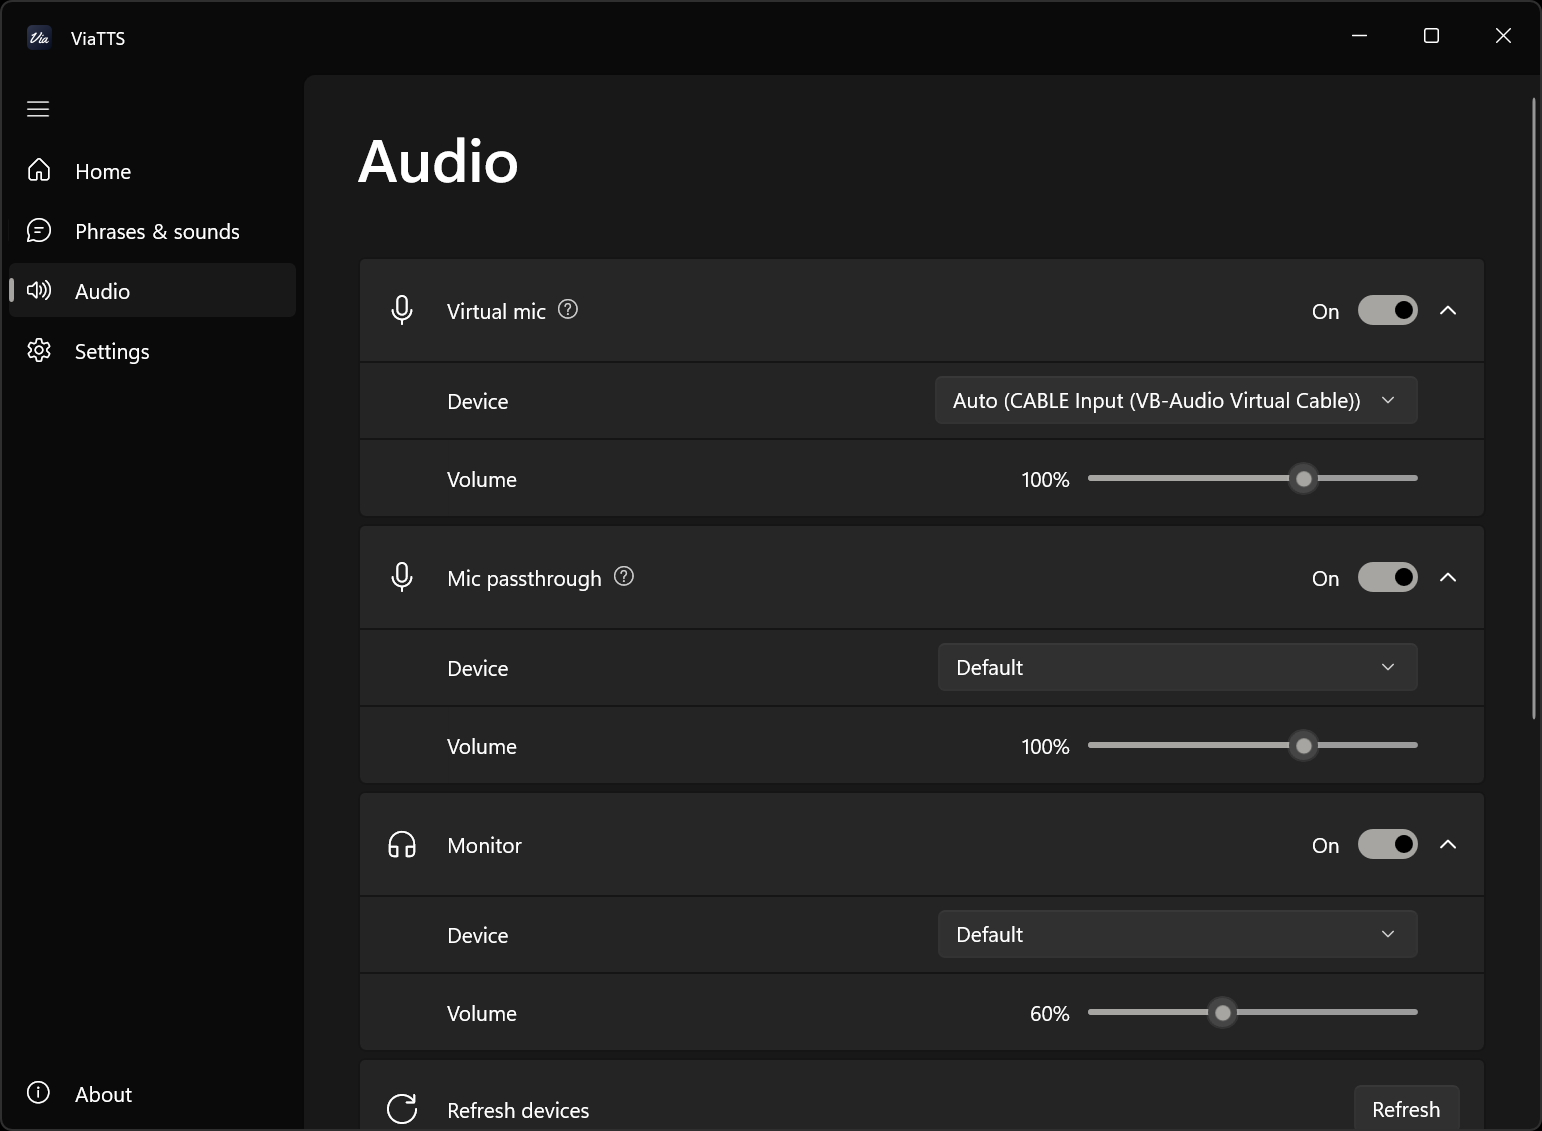
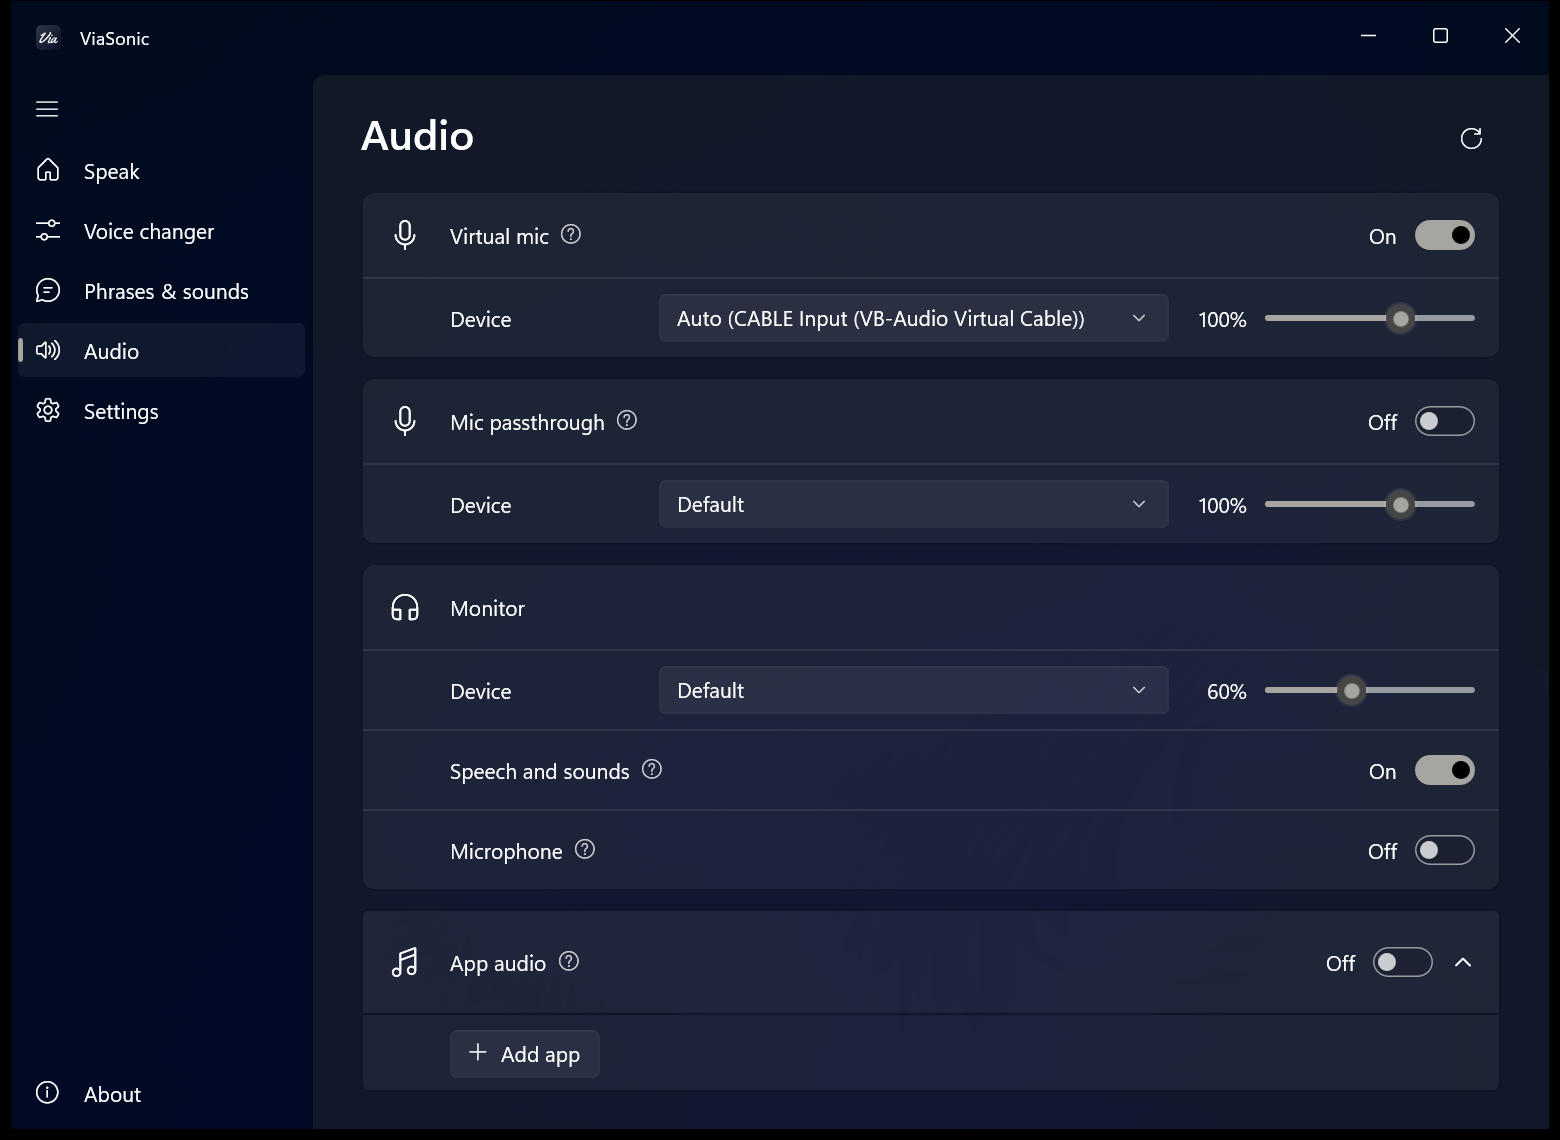
Move About intro into the expander, update README for 2.0 features, refresh screenshots and add voice changer and music player

diff --git a/ui/Pages/AboutPage.xaml b/ui/Pages/AboutPage.xaml
@@ -22,6 +22,10 @@
                     <Button x:Name="UpdateButton" Content="{l:T Text='检查更新'}" Click="CheckUpdate_Click" />
                 </StackPanel>
                 <tk:SettingsExpander.Items>
+                    <!-- 软件介绍，放在外链上面 -->
+                    <tk:SettingsCard ContentAlignment="Left">
+                        <TextBlock Text="{l:T Text='实时文本转语音、变声器（含 RVC）、常用语和音效，以及音乐播放器。通过虚拟麦克风输出声音。'}" TextWrapping="Wrap" />
+                    </tk:SettingsCard>
                     <tk:SettingsCard Header="GPT-SoVITS">
                         <HyperlinkButton Content="GitHub" NavigateUri="https://github.com/RVC-Boss/GPT-SoVITS" />
                     </tk:SettingsCard>

diff --git a/ui/Pages/AboutPage.xaml.cs b/ui/Pages/AboutPage.xaml.cs
@@ -27,9 +27,8 @@ public sealed partial class AboutPage : Page
 
     protected override void OnNavigatedFrom(NavigationEventArgs e) => _timer.Stop();
 
-    /// <summary>ViaSonic 卡片的说明：第一行软件介绍，第二行版本。</summary>
-    private void ShowAbout(string version) =>
-        AppCard.Description = T("实时文本转语音、变声器（含 RVC）、常用语和音效，以及音乐播放器。通过虚拟麦克风输出声音。") + "\n" + version;
+    /// <summary>ViaSonic 卡片的说明：版本（软件介绍在展开栏里）。</summary>
+    private void ShowAbout(string version) => AppCard.Description = version;
 
     private async void CheckUpdate_Click(object sender, RoutedEventArgs e)
     {

diff --git a/README.en.md b/README.en.md
@@ -4,21 +4,25 @@
 
 # ViaSonic
 
-Text-to-speech, a voice changer and a sound player in one, output through a virtual microphone.
+Real-time text-to-speech, a voice changer (with RVC), phrases and sounds, and a music player. Sound goes out through a virtual microphone.
 
 [![Release](https://img.shields.io/github/v/release/wlsnD7/ViaSonic)](https://github.com/wlsnD7/ViaSonic/releases/latest)
 [![License](https://img.shields.io/github/license/wlsnD7/ViaSonic)](LICENSE)
 ![Windows](https://img.shields.io/badge/Windows-10%20%7C%2011-0078D4?logo=windows)
 ![.NET](https://img.shields.io/badge/.NET-8-512BD4?logo=dotnet)
 
-[Install](#install) · [In-game setup](#in-game-setup) · [Hotkeys](#default-hotkeys) · [Development](#development)
+[Install](#install) | [In-game setup](#in-game-setup) | [Hotkeys](#default-hotkeys) | [Development](#development)
 
 [简体中文](README.md) | English
 
 <table>
   <tr>
     <td><img src="docs/en/home.png" width="400" alt="Speak"></td>
+    <td><img src="docs/en/voice.png" width="400" alt="Voice changer"></td>
+  </tr>
+  <tr>
     <td><img src="docs/en/phrases.png" width="400" alt="Phrases & sounds"></td>
+    <td><img src="docs/en/player.png" width="400" alt="Music player"></td>
   </tr>
   <tr>
     <td><img src="docs/en/audio.png" width="400" alt="Audio"></td>
@@ -42,21 +46,25 @@ Text-to-speech, a voice changer and a sound player in one, output through a virt
 | System voice | Built into Windows, works offline. |
 | GPT-SoVITS (optional) | Add any GPT-SoVITS model (GPT weights + SoVITS weights + reference audio); the version is detected automatically. Needs an NVIDIA GPU and the GPT-SoVITS package. |
 | Azure Speech | Microsoft's official speech service. More voices than Edge, with speaking styles. Needs an API key; 500K characters free per month. |
-| Fish Audio | Lots of community character voices. Needs an API key. |
-| Doubao Speech | Volcengine's speech synthesis. Needs an API key. |
-| Alibaba Model Studio | Qwen3-TTS and CosyVoice. Needs an API key. |
+| Fish Audio | Lots of community character voices, plus the models you created yourself (including cloned ones). Needs an API key. |
+| Doubao Speech | Volcengine's speech synthesis, with Voice Clone 2.0 (clone in the console, then add the voice ID). Needs an API key, and the model must be enabled in the console. |
+| Alibaba Model Studio | Qwen3-TTS and CosyVoice. You can add cloned CosyVoice voices. Needs an API key. |
 | MiniMax | Supports cloned voices. Needs an API key. |
 | Custom API | Connects to any HTTP API that returns audio, such as GPT-SoVITS, IndexTTS or CosyVoice running locally. |
 
 API keys are stored encrypted on this PC and can only be read by the current Windows user. With paid online engines, phrases are synthesized the first time you use them and cached after that.
 
-Download the GPT-SoVITS package from [lj1995/GPT-SoVITS-windows-package](https://huggingface.co/lj1995/GPT-SoVITS-windows-package/tree/main): choose `GPT-SoVITS-v2pro-20250604-nvidia50.7z` for RTX 50 series, or `GPT-SoVITS-v2pro-20250604.7z` for other NVIDIA GPUs (about 9 GB). To use it, set the package location in GPT-SoVITS folder on the Speak page, then click + next to Model to add a model.
+Download the GPT-SoVITS package from [lj1995/GPT-SoVITS-windows-package](https://huggingface.co/lj1995/GPT-SoVITS-windows-package/tree/main): choose `GPT-SoVITS-v2pro-20250604-nvidia50.7z` for RTX 50 series, or `GPT-SoVITS-v2pro-20250604.7z` for other NVIDIA GPUs (about 9 GB). To use it, choose GPT-SoVITS as the engine on the Speak page, click ⚙ next to Engine and set the package location in GPT-SoVITS folder, then click + next to Model to add a model.
 
 ## Voice changer
 
 Turn on the voice changer on the Voice changer page. Basic effects can be stacked, up to 6 at once, and saved as presets.
 
-AI voice (RVC) needs an NVIDIA GPU and the RVC package. Download it from [lj1995/VoiceConversionWebUI](https://huggingface.co/lj1995/VoiceConversionWebUI/tree/main): choose `RVC20260718Nvidia50x0.7z` for RTX 50 series, or `RVC20260718Nvidia.7z` for other NVIDIA GPUs. Extract it, then set its location in RVC folder on the Voice changer page. Models (.pth) in the package's `assets\weights` folder are listed automatically.
+AI voice (RVC) needs an NVIDIA GPU and the RVC package. Download it from [lj1995/VoiceConversionWebUI](https://huggingface.co/lj1995/VoiceConversionWebUI/tree/main): choose `RVC20260718Nvidia50x0.7z` for RTX 50 series, or `RVC20260718Nvidia.7z` for other NVIDIA GPUs. Extract it, then click ⚙ next to AI voice on the Voice changer page and set RVC folder. Models (.pth) in the package's `assets\weights` folder are listed automatically.
+
+## Music player
+
+Play music on the Music player tab of the Phrases & sounds page. It also goes out through the virtual microphone. Add files or folders, or import .m3u / .m3u8 playlists. It supports playback speed, back 10 seconds, forward 30 seconds, crossfade and three play modes. Use Audio volume at the top right of the page to set the virtual microphone and monitor volumes separately.
 
 ## In-game setup
 
@@ -66,7 +74,7 @@ AI voice (RVC) needs an NVIDIA GPU and the RVC package. Download it from [lj1995
 4. To send your microphone along with the speech, turn on Mic passthrough on the Audio page and choose your microphone.
 5. To let teammates hear music or video, turn on App audio on the Audio page and add those apps.
 6. If the game uses push to talk, go to Push to talk on the Audio page, click the Key button, then press the game's talk key (a single keyboard key, or the middle or side mouse button). The key is held down while speech plays. Turn it on or off on the Audio page or with a hotkey.
-7. Run the game in **borderless windowed** mode. In fullscreen, opening the input box minimizes the game.
+7. Run the game in **borderless windowed** mode. In fullscreen, opening the input box minimizes the game. Some games minimize on focus loss even in borderless mode: turn off options like "Minimize on focus loss" in the game, or use windowed mode.
 
 ## Default hotkeys
 
@@ -77,6 +85,8 @@ AI voice (RVC) needs an NVIDIA GPU and the RVC package. Download it from [lj1995
 | Stop | Ctrl + Alt + X |
 | Repeat last | Ctrl + Alt + R |
 | Turn push to talk on/off | Not set |
+| Play / pause music | Not set |
+| Next | Not set |
 
 Closing the main window keeps ViaSonic running in the background. Right-click the tray icon to exit.
 

diff --git a/README.md b/README.md
@@ -4,21 +4,25 @@
 
 # ViaSonic
 
-集文本转语音、变声器和音效播放于一体，通过虚拟麦克风输出声音。
+实时文本转语音、变声器（含 RVC）、常用语和音效，以及音乐播放器。通过虚拟麦克风输出声音。
 
 [![Release](https://img.shields.io/github/v/release/wlsnD7/ViaSonic)](https://github.com/wlsnD7/ViaSonic/releases/latest)
 [![License](https://img.shields.io/github/license/wlsnD7/ViaSonic)](LICENSE)
 ![Windows](https://img.shields.io/badge/Windows-10%20%7C%2011-0078D4?logo=windows)
 ![.NET](https://img.shields.io/badge/.NET-8-512BD4?logo=dotnet)
 
-[安装](#安装) · [游戏内设置](#游戏内设置) · [快捷键](#默认快捷键) · [开发](#开发)
+[安装](#安装) | [游戏内设置](#游戏内设置) | [快捷键](#默认快捷键) | [开发](#开发)
 
 简体中文 | [English](README.en.md)
 
 <table>
   <tr>
     <td><img src="docs/zh/home.png" width="400" alt="朗读"></td>
+    <td><img src="docs/zh/voice.png" width="400" alt="变声"></td>
+  </tr>
+  <tr>
     <td><img src="docs/zh/phrases.png" width="400" alt="常用语与音效"></td>
+    <td><img src="docs/zh/player.png" width="400" alt="音乐播放器"></td>
   </tr>
   <tr>
     <td><img src="docs/zh/audio.png" width="400" alt="音频"></td>
@@ -43,21 +47,25 @@
 | 系统语音 | Windows 自带，离线。 |
 | GPT-SoVITS（可选） | 可添加任意 GPT-SoVITS 模型（GPT 权重 + SoVITS 权重 + 参考音频），版本自动识别。需要 NVIDIA 显卡和 GPT-SoVITS 整合包。 |
 | Azure 语音 | 微软官方语音服务，音色比 Edge 更全，支持风格。需要 API Key，每月 50 万字符免费。 |
-| Fish Audio | 可以使用社区里的大量角色音色。需要 API Key。 |
-| 豆包语音 | 火山引擎的语音合成，需要 API Key。 |
-| 阿里云百炼 | Qwen3-TTS 和 CosyVoice，需要 API Key。 |
+| Fish Audio | 可以使用社区里的大量角色音色，也会列出你自己创建（包括复刻）的模型。需要 API Key。 |
+| 豆包语音 | 火山引擎的语音合成，支持声音复刻 2.0（在控制台复刻后添加音色 ID）。需要 API Key，并在控制台开通对应的模型。 |
+| 阿里云百炼 | Qwen3-TTS 和 CosyVoice，CosyVoice 可以添加复刻音色。需要 API Key。 |
 | MiniMax | 支持复刻音色，需要 API Key。 |
 | 自定义接口 | 连接任意返回音频的 HTTP 接口，例如本地运行的 GPT-SoVITS、IndexTTS、CosyVoice。 |
 
 API Key 加密保存在本机，只有当前 Windows 用户能读取。联网付费引擎的常用语在第一次使用时合成，之后用缓存。
 
-GPT-SoVITS 整合包从 [lj1995/GPT-SoVITS-windows-package](https://huggingface.co/lj1995/GPT-SoVITS-windows-package/tree/main) 下载：RTX 50 系选择 `GPT-SoVITS-v2pro-20250604-nvidia50.7z`，其他 NVIDIA 显卡选择 `GPT-SoVITS-v2pro-20250604.7z`（约 9GB）。需要使用时，在软件「朗读」页的「GPT-SoVITS 目录」指定整合包位置，在「模型」里点击加号添加模型。
+GPT-SoVITS 整合包从 [lj1995/GPT-SoVITS-windows-package](https://huggingface.co/lj1995/GPT-SoVITS-windows-package/tree/main) 下载：RTX 50 系选择 `GPT-SoVITS-v2pro-20250604-nvidia50.7z`，其他 NVIDIA 显卡选择 `GPT-SoVITS-v2pro-20250604.7z`（约 9GB）。需要使用时，在「朗读」页把引擎选成 GPT-SoVITS，点「引擎」旁边的 ⚙，在「GPT-SoVITS 目录」指定整合包位置，然后在「模型」里点击加号添加模型。
 
 ## 变声器
 
 在「变声」页打开变声器。基础效果可以叠加，最多同时开 6 个，调好后可以保存成组合。
 
-AI 变声（RVC）需要 NVIDIA 显卡和 RVC 整合包。从 [lj1995/VoiceConversionWebUI](https://huggingface.co/lj1995/VoiceConversionWebUI/tree/main) 下载：RTX 50 系选择 `RVC20260718Nvidia50x0.7z`，其他 NVIDIA 显卡选择 `RVC20260718Nvidia.7z`。解压后在「变声」页的「RVC 目录」指定位置。模型（.pth）放进整合包的 `assets\weights` 文件夹会自动列出。
+AI 变声（RVC）需要 NVIDIA 显卡和 RVC 整合包。从 [lj1995/VoiceConversionWebUI](https://huggingface.co/lj1995/VoiceConversionWebUI/tree/main) 下载：RTX 50 系选择 `RVC20260718Nvidia50x0.7z`，其他 NVIDIA 显卡选择 `RVC20260718Nvidia.7z`。解压后在「变声」页「AI 变声」右边的 ⚙ 里指定「RVC 目录」。模型（.pth）放进整合包的 `assets\weights` 文件夹会自动列出。
+
+## 音乐播放器
+
+在「常用语与音效」页的「音乐播放器」标签里播放音乐，同样通过虚拟麦克风输出。可以添加文件、文件夹或导入 .m3u / .m3u8 歌单，支持倍速、后退 10 秒、前进 30 秒、交叉过渡和三种播放模式。音量在页面右上角的「音频音量」里，进虚拟麦克风和进监听的分开调。
 
 ## 游戏内设置
 
@@ -67,7 +75,7 @@ AI 变声（RVC）需要 NVIDIA 显卡和 RVC 整合包。从 [lj1995/VoiceConve
 4. 同时接入麦克风和文本生成的语音，需在「音频」页打开「麦克风直通」并选择你的麦克风。
 5. 想让队友听到音乐或视频的声音，在「音频」页打开「应用声音」，添加对应的应用。
 6. 如果游戏用「按键说话」，在「音频」页的「按键说话」里点「按键」按钮，再按下游戏里的说话键（键盘单键，或鼠标中键、侧键）。朗读期间会自动按住这个键。可在「音频」页或用快捷键随时开关。
-7. 游戏请用**无边框窗口**模式，全屏下弹出输入框会让游戏最小化。
+7. 游戏请用**无边框窗口**模式，全屏下弹出输入框会让游戏最小化。有些游戏即使是无边框窗口，失去焦点也会最小化，可以在游戏设置里关掉「失去焦点时最小化」之类的选项，或者改成窗口模式。
 
 ## 默认快捷键
 
@@ -78,6 +86,8 @@ AI 变声（RVC）需要 NVIDIA 显卡和 RVC 整合包。从 [lj1995/VoiceConve
 | 停止播放 | Ctrl + Alt + X |
 | 重复上一句 | Ctrl + Alt + R |
 | 打开 / 关闭按键说话 | 未设置 |
+| 播放 / 暂停音乐 | 未设置 |
+| 下一首 | 未设置 |
 
 关闭主窗口后，软件会在后台运行，右键系统托盘图标退出。
 
